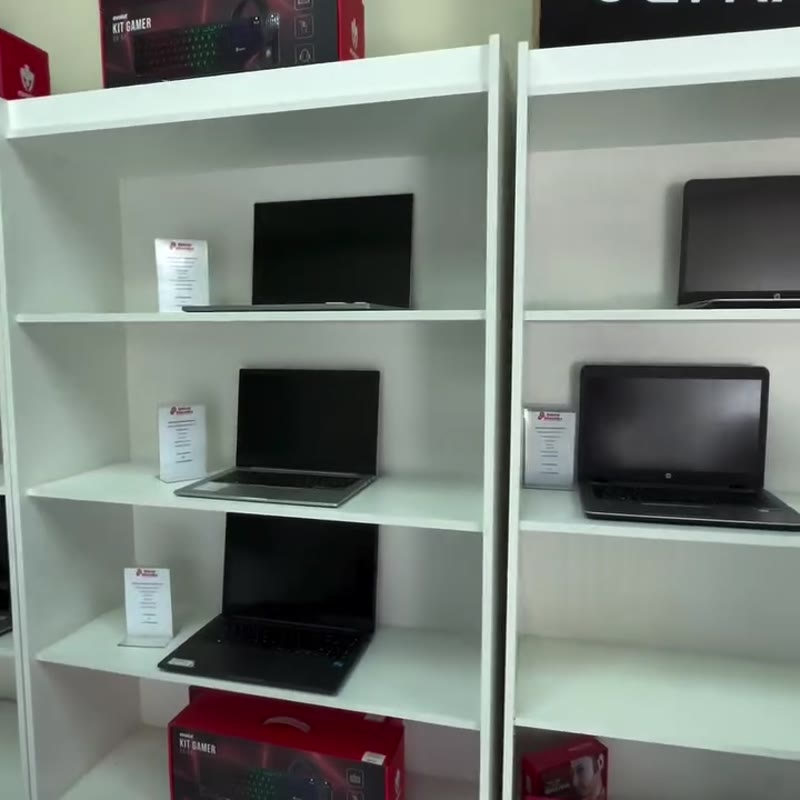
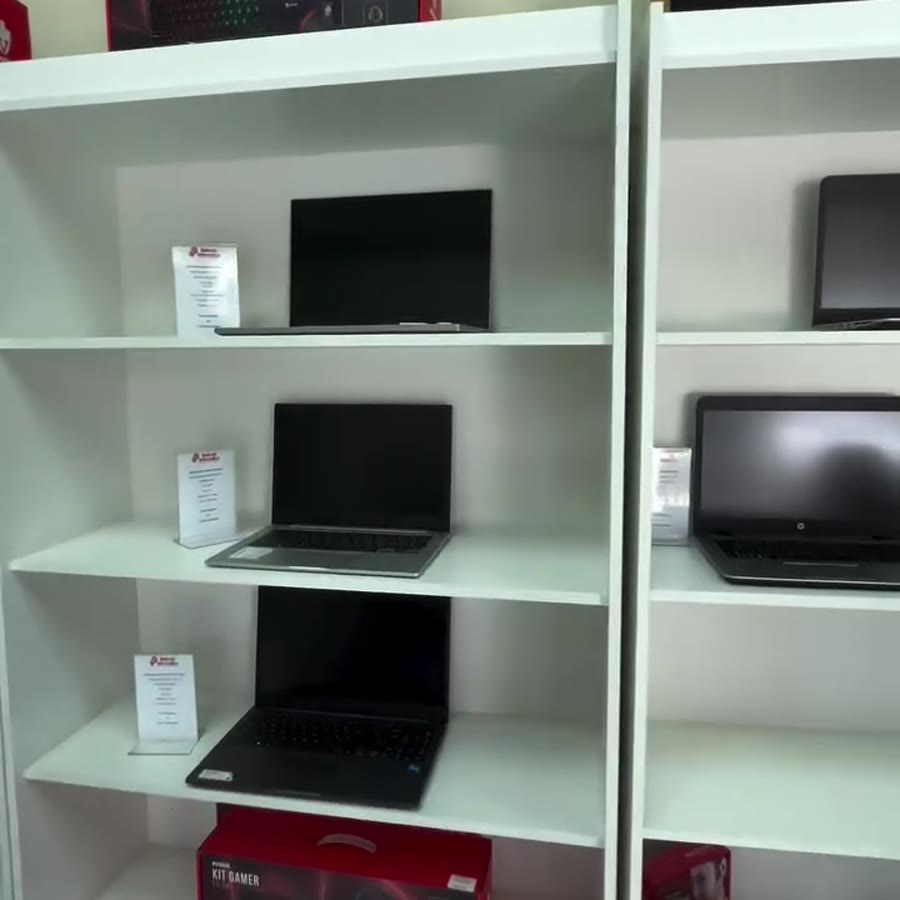
feat(home): troca as fotos da loja por quadros sem pessoas
A seleccao anterior tinha uma funcionaria em todas as fotos. Refeita a
varredura dos 10 videos: 226 quadros a cada 1,5s, filtrados por deteccao
de pessoa (HOG + Haar de rosto, perfil e torso) e conferidos a olho.

Novas fotos, todas sem ninguem em cena:
- pc-ligado (hero): gabinete com RGB aceso na bancada — a manchete promete
  ver o PC ligado antes de pagar, a foto mostra isso
- fachada: o predio vermelho na Av. Anchieta, com a placa
- salao: corredor central e prateleiras, mostra os 300 m2
- estoque-notebooks: prateleiras com notebooks e perifericos
- monitores-acessorios: monitores em exposicao e parede de acessorios
- bancada: sobra disponivel, ainda nao usada na pagina

Removidas as cinco que tinham pessoa (atendimento-balcao, setup-gamer,
vitrine-placas-video, parede-acessorios, espaco-fliperama).

diff --git a/app/page.tsx b/app/page.tsx
@@ -59,10 +59,10 @@ const AVALIACOES = [
 /* Fotos reais da loja. Vazio = a seção usa um bloco neutro em vez de
  * imagem de IA. Render de IA contradiz o argumento "loja física real". */
 const FOTOS_LOJA: { src: string; alt: string }[] = [
-  { src: "/images/loja/atendimento-balcao.jpg", alt: "Atendente da Balão da Informática no salão da loja do Cambuí" },
-  { src: "/images/loja/estoque-notebooks.jpg", alt: "Prateleiras com notebooks em exposição na loja" },
-  { src: "/images/loja/vitrine-placas-video.jpg", alt: "Placas de vídeo GeForce RTX e processadores Ryzen na vitrine" },
-  { src: "/images/loja/parede-acessorios.jpg", alt: "Parede de acessórios e periféricos da loja" },
+  { src: "/images/loja/fachada.jpg", alt: "Fachada da Balão da Informática na Av. Anchieta, 789, no Cambuí" },
+  { src: "/images/loja/salao.jpg", alt: "Salão da loja com prateleiras e corredor central" },
+  { src: "/images/loja/estoque-notebooks.jpg", alt: "Prateleiras com notebooks e periféricos em exposição" },
+  { src: "/images/loja/monitores-acessorios.jpg", alt: "Monitores em exposição e parede de acessórios" },
 ];
 
 const WPP = SITE_CONFIG.whatsapp.number;
@@ -225,8 +225,8 @@ export default async function Home() {
               isso, na bancada da loja. Quadro real, não render. */}
           <div className="relative aspect-[4/5] w-full overflow-hidden rounded-3xl lg:aspect-square">
             <Image
-              src="/images/loja/setup-gamer.jpg"
-              alt="PC gamer montado e ligado na bancada da loja do Cambuí"
+              src="/images/loja/pc-ligado.jpg"
+              alt="Gabinete gamer montado e ligado na bancada da loja do Cambuí"
               fill
               priority
               sizes="(max-width: 1024px) 100vw, 520px"
